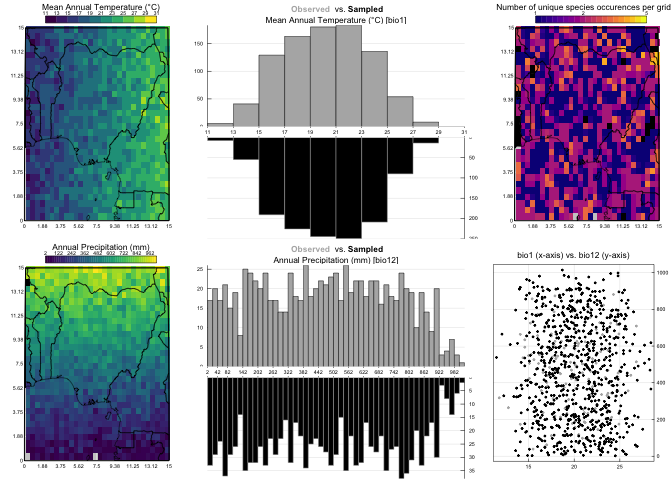
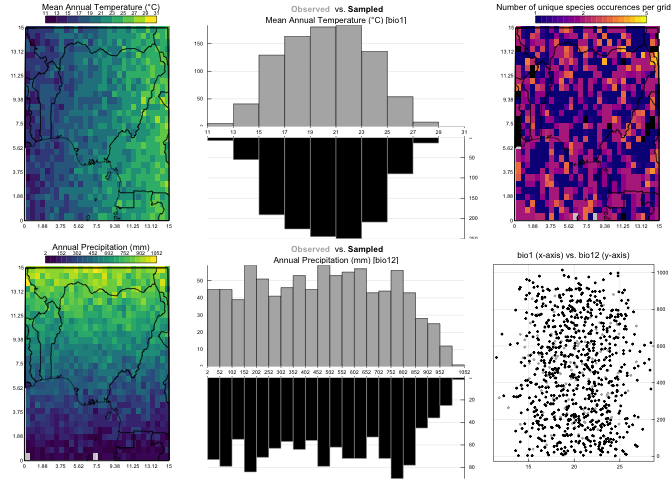
Updated README

diff --git a/README.md b/README.md
@@ -29,13 +29,15 @@ version](https://img.shields.io/github/r-package/v/mchevalier2/crestr)](https://
 commit](https://img.shields.io/github/last-commit/mchevalier2/crestr)]()
 <!-- badges: end -->
 
+# 
+
 <hr />
 
-The goal of crestr is to produce probabilistic reconstructions of past
+The goal of crestr is to enable probabilistic reconstructions of past
 climate change from fossil assemblage data. The approach is based on the
-estimation of conditional responses of studies bioproxy studied to
-climate paramters. These responses take the form of probability density
-functions (*pdfs*). The details of the method have been described in
+estimation of conditional responses of different bioproxies to various
+climate parameters. Theseresponses take the form of probability density
+functions (*pdfs*). The detailsof the method have been described in
 [Chevalier *et al.* (2014)](http://www.doi.org/10.5194/cp-10-2081-2014)
 and the calibrated data presented in [Chevalier
 (2019)](http://www.doi.org/10.1016/j.gloplacha.2019.01.016).
@@ -63,7 +65,7 @@ think of additional functionalities to incorporate to the package,
 please contact me at <chevalier.manuel@gmail.com> or open a discussion
 [here](https://github.com/mchevalier2/crestr/issues).
 
-## Example
+## A Quick Example
 
 The following example illustrates the basics of **crestr** using
 pseudo-data (*i.e.* randomly generated data). More elaborate examples
@@ -145,7 +147,7 @@ parameters), the reconstructions will be processed.
 ``` r
 recons <- crest(
    df = crest_ex, pse = crest_ex_pse, taxaType = 0,
-   climate = c("bio1", "bio12"), bin_width = c(2, 20),
+   climate = c("bio1", "bio12"), bin_width = c(2, 50),
    shape = c("normal", "lognormal"),
    selectedTaxa = crest_ex_selection, dbname = "crest_example"
 )
